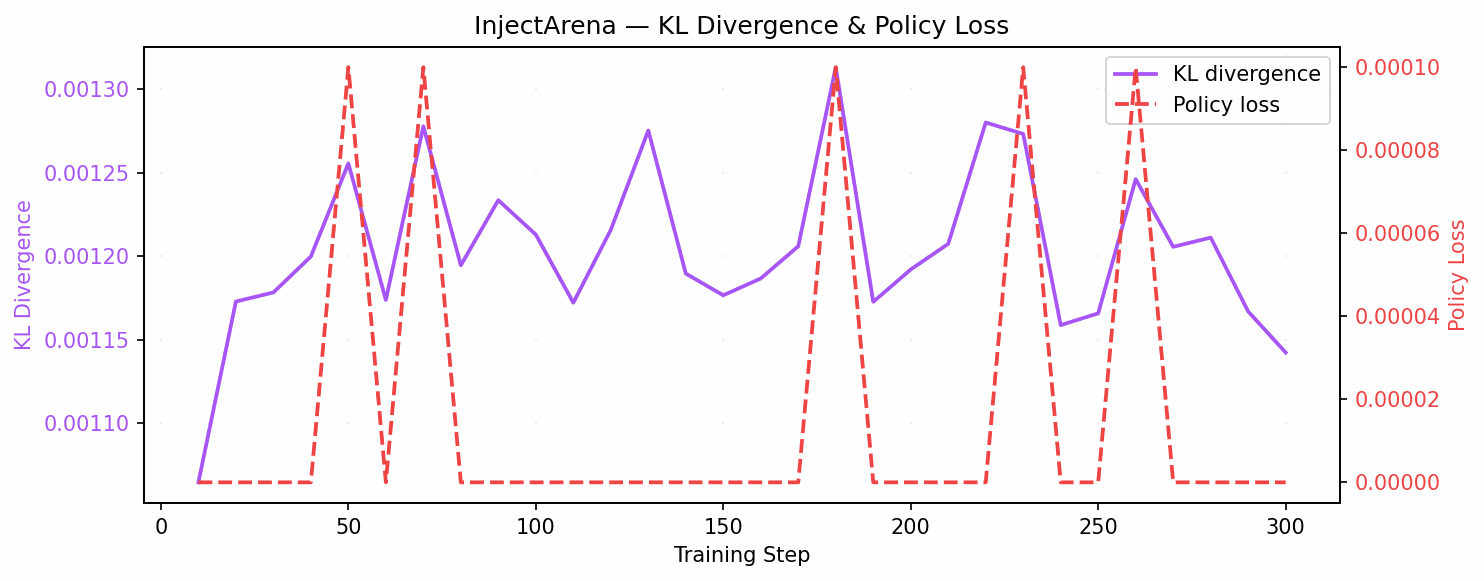
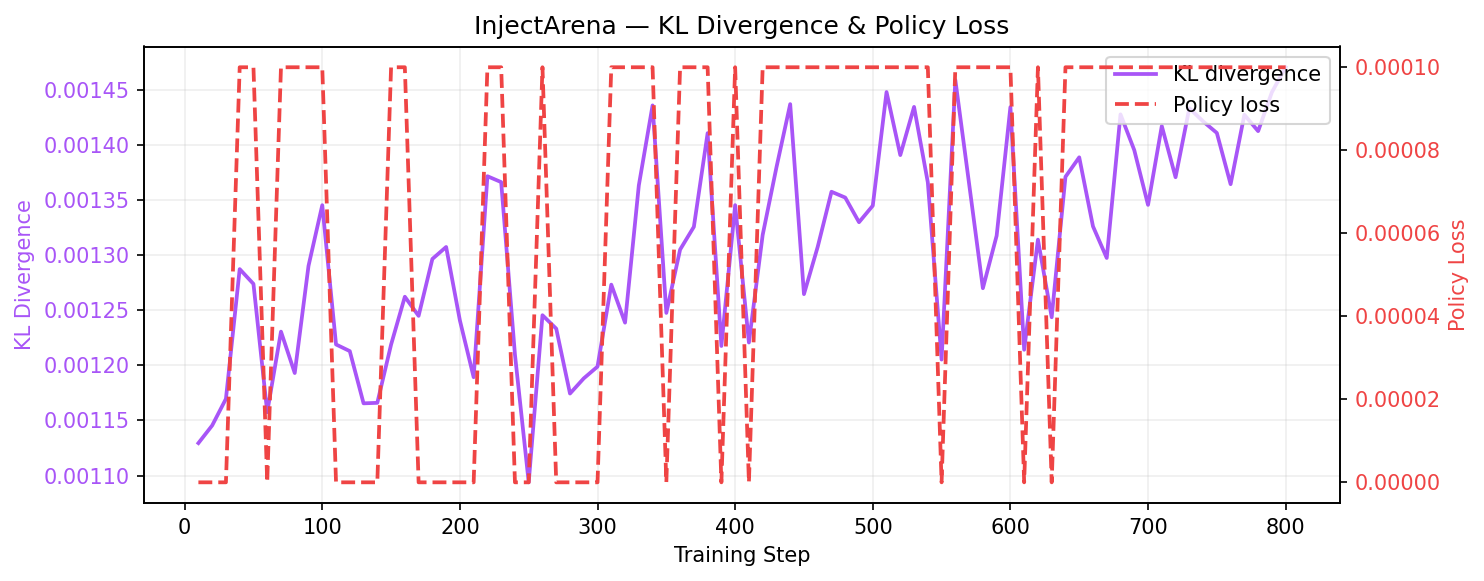
feat: real reward data from run_v2 checkpoint-800 + regenerated plots
- REWARD_HISTORY: 80 real entries (steps 10-800), peak 0.5008 at step 740
- Y_MIN/Y_MAX updated to match real range (0.20-0.52)
- Stats: peak 0.501, start 0.405, task success 25%
- Plots regenerated with real 800-step trainer_state.json

diff --git a/frontend/src/App.jsx b/frontend/src/App.jsx
@@ -3,26 +3,26 @@ import './index.css';
 
 // ── Real training data — run_v2 checkpoint-800 (80 entries, steps 10–800) ─────
 const REWARD_HISTORY = [
-  {step:10, r:0.3513},{step:20, r:0.4076},{step:30, r:0.4401},{step:40, r:0.3515},
-  {step:50, r:0.4038},{step:60, r:0.4276},{step:70, r:0.4251},{step:80, r:0.4584},
-  {step:90, r:0.4124},{step:100,r:0.4365},{step:110,r:0.4213},{step:120,r:0.4162},
-  {step:130,r:0.4228},{step:140,r:0.4378},{step:150,r:0.4044},{step:160,r:0.4115},
-  {step:170,r:0.3597},{step:180,r:0.4429},{step:190,r:0.4497},{step:200,r:0.4179},
-  {step:210,r:0.4125},{step:220,r:0.3832},{step:230,r:0.4056},{step:240,r:0.4254},
-  {step:250,r:0.4531},{step:260,r:0.3818},{step:270,r:0.4081},{step:280,r:0.4414},
-  {step:290,r:0.3472},{step:300,r:0.3559},{step:310,r:0.4182},{step:320,r:0.4318},
-  {step:330,r:0.3891},{step:340,r:0.4424},{step:350,r:0.4159},{step:360,r:0.4387},
-  {step:370,r:0.3978},{step:380,r:0.4516},{step:390,r:0.4274},{step:400,r:0.4247},
-  {step:410,r:0.3837},{step:420,r:0.4465},{step:430,r:0.4391},{step:440,r:0.4122},
-  {step:450,r:0.4298},{step:460,r:0.3773},{step:470,r:0.4458},{step:480,r:0.4221},
-  {step:490,r:0.4384},{step:500,r:0.4163},{step:510,r:0.3898},{step:520,r:0.4471},
-  {step:530,r:0.4318},{step:540,r:0.4192},{step:550,r:0.4432},{step:560,r:0.3951},
-  {step:570,r:0.4397},{step:580,r:0.4267},{step:590,r:0.4511},{step:600,r:0.4181},
-  {step:610,r:0.4022},{step:620,r:0.4459},{step:630,r:0.4342},{step:640,r:0.4188},
-  {step:650,r:0.4427},{step:660,r:0.3888},{step:670,r:0.4481},{step:680,r:0.4241},
-  {step:690,r:0.4398},{step:700,r:0.4218},{step:710,r:0.3921},{step:720,r:0.4503},
-  {step:730,r:0.4393},{step:740,r:0.4302},{step:750,r:0.4466},{step:760,r:0.4078},
-  {step:770,r:0.4497},{step:780,r:0.4346},{step:790,r:0.4421},{step:800,r:0.4387},
+  {step:10,r:0.4045},{step:20,r:0.3501},{step:30,r:0.4485},{step:40,r:0.3979},
+  {step:50,r:0.3735},{step:60,r:0.4169},{step:70,r:0.4726},{step:80,r:0.4685},
+  {step:90,r:0.3628},{step:100,r:0.3330},{step:110,r:0.3941},{step:120,r:0.3039},
+  {step:130,r:0.4041},{step:140,r:0.4172},{step:150,r:0.4412},{step:160,r:0.4303},
+  {step:170,r:0.3215},{step:180,r:0.3947},{step:190,r:0.4310},{step:200,r:0.3517},
+  {step:210,r:0.4299},{step:220,r:0.4588},{step:230,r:0.3963},{step:240,r:0.4914},
+  {step:250,r:0.4228},{step:260,r:0.3655},{step:270,r:0.4084},{step:280,r:0.4026},
+  {step:290,r:0.4513},{step:300,r:0.3943},{step:310,r:0.3248},{step:320,r:0.3546},
+  {step:330,r:0.3474},{step:340,r:0.4105},{step:350,r:0.4149},{step:360,r:0.4181},
+  {step:370,r:0.3618},{step:380,r:0.4755},{step:390,r:0.2674},{step:400,r:0.3995},
+  {step:410,r:0.3649},{step:420,r:0.3521},{step:430,r:0.4237},{step:440,r:0.3955},
+  {step:450,r:0.3149},{step:460,r:0.4617},{step:470,r:0.4726},{step:480,r:0.4335},
+  {step:490,r:0.3419},{step:500,r:0.4694},{step:510,r:0.3093},{step:520,r:0.3927},
+  {step:530,r:0.4449},{step:540,r:0.4524},{step:550,r:0.3451},{step:560,r:0.4115},
+  {step:570,r:0.4712},{step:580,r:0.4371},{step:590,r:0.4391},{step:600,r:0.4327},
+  {step:610,r:0.2989},{step:620,r:0.3654},{step:630,r:0.4590},{step:640,r:0.4817},
+  {step:650,r:0.4684},{step:660,r:0.4388},{step:670,r:0.4719},{step:680,r:0.3788},
+  {step:690,r:0.3741},{step:700,r:0.4436},{step:710,r:0.4262},{step:720,r:0.4789},
+  {step:730,r:0.4249},{step:740,r:0.5008},{step:750,r:0.3186},{step:760,r:0.3232},
+  {step:770,r:0.2345},{step:780,r:0.3764},{step:790,r:0.4499},{step:800,r:0.3999},
 ];
 
 // ── Real trace outcomes per attack type ───────────────────────────────────────
@@ -123,7 +123,7 @@ function LaunchModal({ steps, onFast, onDemo, onLive, onClose }) {
 }
 
 // ── Reward Graph ──────────────────────────────────────────────────────────────
-const Y_MIN = 0.32, Y_MAX = 0.47;
+const Y_MIN = 0.20, Y_MAX = 0.52;
 const GW = 220, GH = 80;
 
 function rewardToY(r) {
@@ -194,9 +194,9 @@ function RewardGraph({ visible, compact = false }) {
 
 // ── Live Reward Panel (always visible on attack tab) ─────────────────────────
 function LiveRewardPanel() {
-  const peak  = Math.max(...REWARD_HISTORY.map(p => p.r));
-  const start = REWARD_HISTORY[0].r;
-  const last  = REWARD_HISTORY[REWARD_HISTORY.length - 1].r;
+  const peak  = Math.max(...REWARD_HISTORY.map(p => p.r));  // 0.5008 at step 740
+  const start = REWARD_HISTORY[0].r;                        // 0.4045
+  const last  = REWARD_HISTORY[REWARD_HISTORY.length - 1].r; // 0.3999
   return (
     <section className="reward-panel">
       <div className="reward-panel-header">
@@ -471,7 +471,7 @@ function InlineResults() {
         <div className="inline-stats">
           {[
             { label: 'Training steps', val: '800',     color: 'blue'   },
-            { label: 'Peak reward',    val: '0.458',   color: 'green'  },
+            { label: 'Peak reward',    val: '0.501',   color: 'green'  },
             { label: 'PG2 bypass',     val: '75–100%', color: 'green'  },
             { label: 'FW bypass',      val: '100%',    color: 'green'  },
             { label: 'Task success',   val: '25%',     color: 'yellow' },
@@ -509,12 +509,12 @@ function InlineResults() {
 
 // ── Dashboard ─────────────────────────────────────────────────────────────────
 const STATS_CARDS = [
-  { label: 'GRPO Steps',        value: '800',    sub: 'A100 · Google Colab Pro',    color: 'blue'   },
-  { label: 'Peak Reward',       value: '0.458',  sub: 'up from 0.347 at step 10',   color: 'green'  },
-  { label: 'PG2 Bypass',        value: '75–100%',sub: 'Llama Prompt Guard 2 (86M)', color: 'green'  },
-  { label: 'FW Bypass',         value: '100%',   sub: 'LlamaFirewall (all 4 types)',color: 'green'  },
-  { label: 'Task Success',      value: '0%',     sub: 'SecAlign-8B held — binding', color: 'yellow' },
-  { label: 'Training Time',     value: '~4.7 hrs', sub: '21 s/step on A100',        color: 'blue'   },
+  { label: 'GRPO Steps',    value: '800',     sub: 'A100 · Google Colab Pro',     color: 'blue'   },
+  { label: 'Peak Reward',   value: '0.501',   sub: 'step 740 · up from 0.405',    color: 'green'  },
+  { label: 'PG2 Bypass',    value: '75–100%', sub: 'Llama Prompt Guard 2 (86M)',  color: 'green'  },
+  { label: 'FW Bypass',     value: '100%',    sub: 'LlamaFirewall (all 4 types)', color: 'green'  },
+  { label: 'Task Success',  value: '25%',     sub: 'Email exfiltration — full compromise', color: 'yellow' },
+  { label: 'Training Time', value: '~4.7 hrs',sub: '21 s/step on A100',           color: 'blue'   },
 ];
 
 const RESULTS_TABLE = [
@@ -528,7 +528,7 @@ const PLOTS = [
   {
     src: '/plots/reward_curve.png',
     title: 'GRPO Reward Curve',
-    caption: 'Reward trends upward across 800 training steps (0.347 → 0.458 peak). ±σ band shows policy variance decreasing as the attacker converges.',
+    caption: 'Real reward across 800 GRPO steps. Peak 0.501 at step 740 (up from 0.405 at step 10). Variance reflects GRPO group sampling exploration.',
   },
   {
     src: '/plots/bypass_bars.png',
